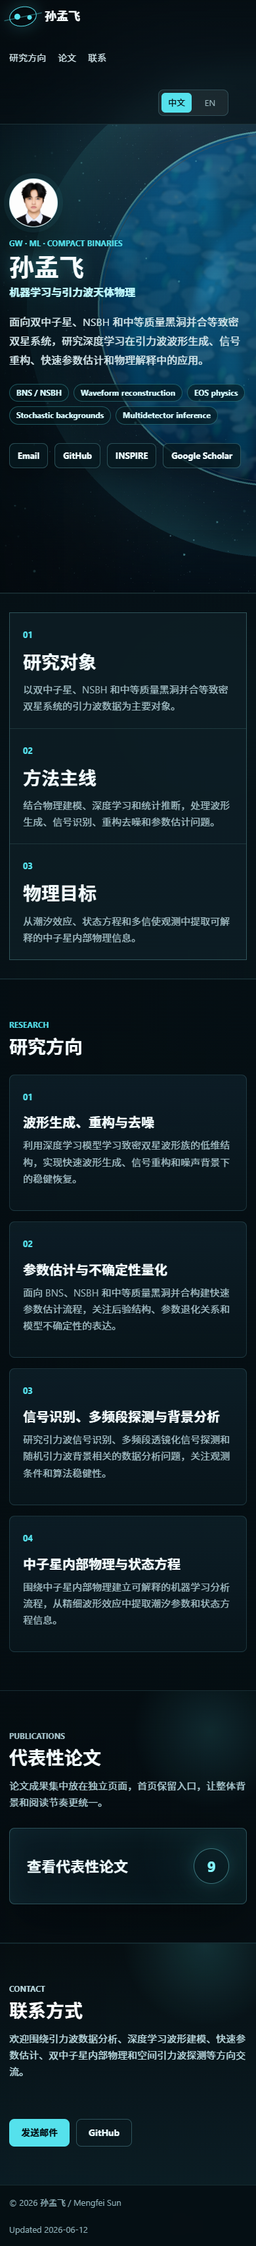
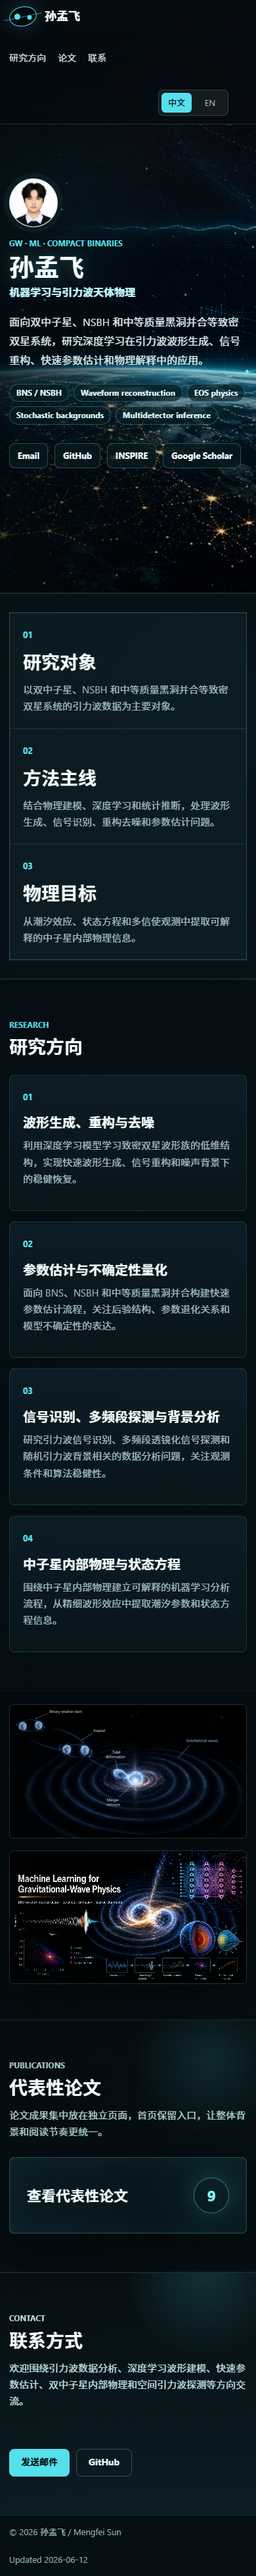
Use science visuals for homepage background

Changed region(s): [[0.0, 0.0, 1.0, 1.0], [0.0308, 0.0, 0.3077, 0.0311], [0.6154, 0.808, 0.6769, 0.8391]]

diff --git a/assets/css/styles.css b/assets/css/styles.css
@@ -33,7 +33,7 @@ body {
   background:
     linear-gradient(90deg, rgba(2, 7, 10, 0.72) 0%, rgba(2, 7, 10, 0.48) 38%, rgba(2, 7, 10, 0.08) 100%),
     linear-gradient(180deg, rgba(2, 7, 10, 0.08) 0%, rgba(2, 7, 10, 0.5) 100%),
-    url("../img/earth-cosmos-full.png") center top / cover fixed,
+    url("../img/hero-earth-observatory.png") center top / cover fixed,
     var(--bg);
   font-family: Inter, "Segoe UI", "Noto Sans SC", "Microsoft YaHei", Arial, sans-serif;
   font-size: 16px;
@@ -267,7 +267,8 @@ p {
   z-index: -4;
   object-fit: cover;
   object-position: center center;
-  opacity: 0.96;
+  opacity: 1;
+  filter: saturate(1.08) contrast(1.04) brightness(1.08);
 }
 
 .hero-backdrop-merger {
@@ -297,10 +298,10 @@ p {
   z-index: -1;
   pointer-events: none;
   background:
-    radial-gradient(circle at 20% 34%, rgba(85, 225, 236, 0.1), transparent 30%),
-    radial-gradient(circle at 78% 18%, rgba(214, 183, 114, 0.07), transparent 30%),
-    linear-gradient(90deg, rgba(3, 9, 13, 0.72) 0%, rgba(3, 9, 13, 0.42) 34%, rgba(3, 9, 13, 0.04) 72%, rgba(3, 9, 13, 0.08) 100%),
-    linear-gradient(180deg, rgba(3, 9, 13, 0.12), rgba(3, 9, 13, 0.38));
+    radial-gradient(circle at 20% 34%, rgba(85, 225, 236, 0.06), transparent 30%),
+    radial-gradient(circle at 78% 18%, rgba(214, 183, 114, 0.05), transparent 30%),
+    linear-gradient(90deg, rgba(3, 9, 13, 0.76) 0%, rgba(3, 9, 13, 0.5) 30%, rgba(3, 9, 13, 0.08) 68%, rgba(3, 9, 13, 0.02) 100%),
+    linear-gradient(180deg, rgba(3, 9, 13, 0.04), rgba(3, 9, 13, 0.2));
 }
 
 .hero-noise::after {
@@ -851,6 +852,53 @@ h1 {
   transform: translateY(-2px);
 }
 
+.visual-section {
+  padding: 28px 0 74px;
+  background:
+    linear-gradient(180deg, rgba(5, 15, 20, 0.18), rgba(5, 15, 20, 0.56));
+}
+
+.visual-grid {
+  display: grid;
+  grid-template-columns: 1fr;
+  gap: 18px;
+  align-items: stretch;
+}
+
+.science-visual {
+  position: relative;
+  aspect-ratio: 16 / 9;
+  min-height: 0;
+  margin: 0;
+  overflow: hidden;
+  border: 1px solid rgba(132, 220, 230, 0.2);
+  border-radius: var(--radius);
+  background: rgba(3, 12, 17, 0.42);
+  box-shadow: 0 24px 70px rgba(0, 0, 0, 0.34);
+}
+
+.science-visual-wide {
+  min-height: 0;
+}
+
+.science-visual::after {
+  content: "";
+  position: absolute;
+  inset: 0;
+  pointer-events: none;
+  background:
+    linear-gradient(180deg, transparent 58%, rgba(2, 8, 12, 0.18)),
+    linear-gradient(90deg, rgba(2, 8, 12, 0.18), transparent 38%, rgba(2, 8, 12, 0.08));
+}
+
+.science-visual img {
+  width: 100%;
+  height: 100%;
+  object-fit: cover;
+  object-position: center center;
+  filter: saturate(1.06) contrast(1.06) brightness(1.02);
+}
+
 .publication-section {
   background:
     radial-gradient(circle at 82% 16%, rgba(85, 225, 236, 0.13), transparent 26%),
@@ -1139,6 +1187,7 @@ h1 {
 
   .summary-grid,
   .research-list,
+  .visual-grid,
   .compact-heading,
   .contact-grid {
     grid-template-columns: 1fr;
@@ -1243,6 +1292,14 @@ h1 {
 
   .intro-band {
     padding: 28px 0;
+  }
+
+  .visual-section {
+    padding: 20px 0 54px;
+  }
+
+  .science-visual {
+    aspect-ratio: 16 / 9;
   }
 
   .summary-grid article,

diff --git a/index.html b/index.html
@@ -39,7 +39,7 @@
 
     <main id="main">
       <section class="hero-section" aria-label="Academic profile">
-        <img class="hero-backdrop" src="assets/img/earth-cosmos-full.png" alt="" aria-hidden="true" />
+        <img class="hero-backdrop" src="assets/img/hero-earth-observatory.png" alt="" aria-hidden="true" />
         <canvas class="hero-canvas" id="cosmic-canvas" aria-hidden="true"></canvas>
         <div class="hero-noise" aria-hidden="true"></div>
 
@@ -148,6 +148,17 @@
               <p data-lang="en">Building interpretable machine-learning workflows to extract tidal parameters and equation-of-state information from subtle waveform effects.</p>
             </article>
           </div>
+        </div>
+      </section>
+
+      <section class="section visual-section" aria-label="Scientific visuals">
+        <div class="section-inner visual-grid">
+          <figure class="science-visual science-visual-wide">
+            <img src="assets/img/science-bns-merger.png" alt="Binary neutron star merger scientific illustration" />
+          </figure>
+          <figure class="science-visual">
+            <img src="assets/img/science-gw-ml.png" alt="Machine learning for gravitational-wave physics scientific illustration" />
+          </figure>
         </div>
       </section>
 
